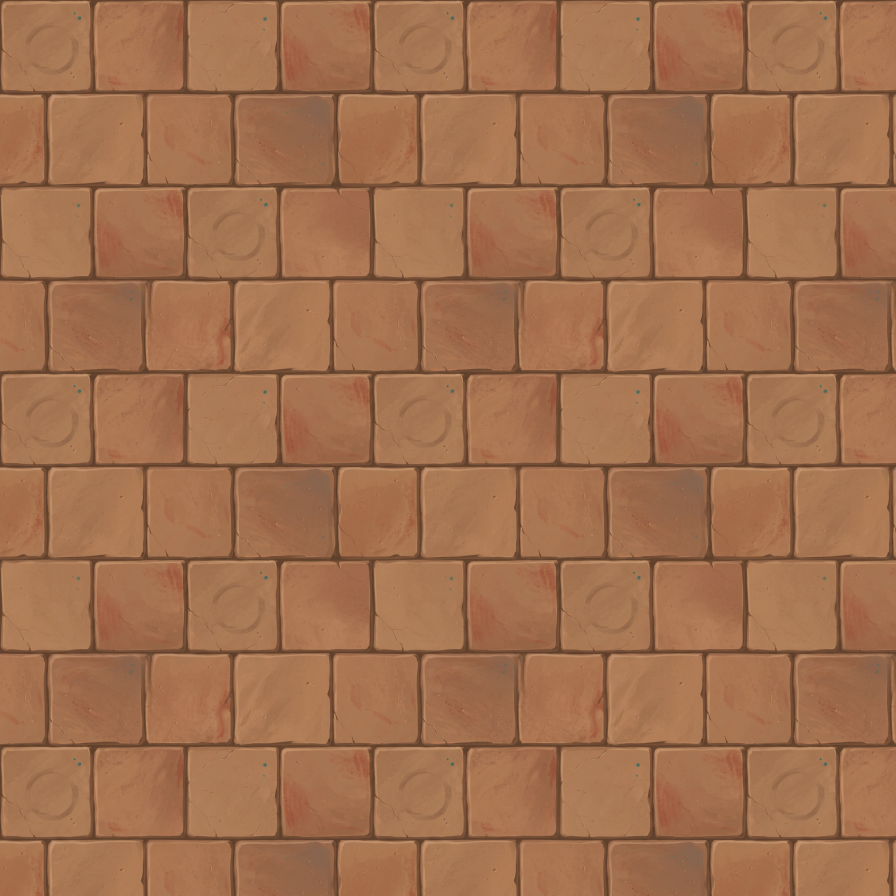
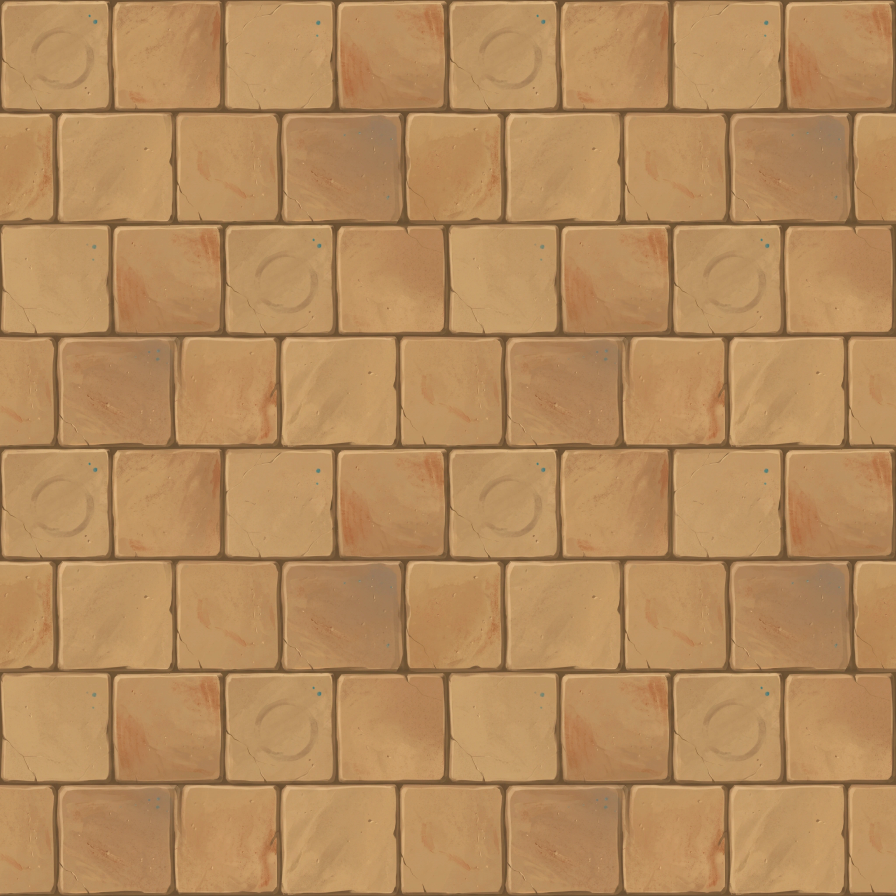
fix: junior's floor is gold-ochre and tiles whole, its palette re-sampled from the repaint
Claude-Session: https://claude.ai/code/session_01NQk9Q1WZoZfDzoRioyXby1

diff --git a/scripts/importTile.ts b/scripts/importTile.ts
@@ -15,9 +15,9 @@
  *   --key=#ff00ff    background colour to make transparent (default magenta). --key=none to skip.
  *   --tolerance=60   how far from that colour still counts as background (0-441, default 60)
  *   --filter=nearest keep hard pixel edges. --filter=smooth for painted art (default: nearest)
- *   --repeat=1.4     fit the art N times across the slot instead of once, for a megatile whose subject
- *                    came back too big. Fractional is the point — a whole number makes the repeat
- *                    visible. Run `make-seamless` on the SOURCE first, or the grid shows its own seams.
+ *   --repeat=2       fit the art N times across the slot instead of once, for a megatile whose subject
+ *                    came back too big. A whole number: the slot is tiled again on the map, and only whole
+ *                    copies meet their neighbour. Run `make-seamless` on the SOURCE first.
  *   --headroom=0.25  squeeze the art into the LOWER part of the slot and leave the rest clear. On a FACE
  *                    the cap is painted the wall's own top colour, because a face IS the wall; on any
  *                    other slot it is left transparent, so the wall behind a hanging thing still shows.
@@ -614,6 +614,12 @@ const main = async (): Promise<void> => {
   mkdirSync(dir, { recursive: true })
   const out = join(dir, `${name}.png`)
   const repeat = Number(arg("repeat", "1"))
+  if (!Number.isInteger(repeat) || repeat < 1) {
+    console.error(
+      `--repeat=${arg("repeat", "1")}: a whole number. The map tiles this slot again, so a cut copy meets a whole one at every seam.`
+    )
+    process.exit(1)
+  }
   const tileW = Math.round(w / repeat)
   // A face repeats HORIZONTALLY only, the same axis `make-seamless --axis=x` works on: its bands are
   // registered top to bottom and stacking a second copy under them would draw two walls. It is also the
@@ -631,10 +637,8 @@ const main = async (): Promise<void> => {
   // One tile, or a grid of a smaller copy. A generator draws a floor's subject at whatever scale it likes
   // and cannot be talked down reliably; shrinking and repeating is the one lever that needs no re-roll.
   //
-  // `repeat` is fractional on purpose. A whole number is what makes a repeat VISIBLE — at 2 the megatile
-  // is four identical quarters and the eye finds them at once. At 1.4 the copies run off the edge and are
-  // cropped, so no two are the same, and because the source is already seamless (run `make-seamless` on
-  // it first) the crop still tiles.
+  // `repeat` is whole. The map lays this slot edge to edge, so a copy cut off at the slot's edge would meet
+  // the next slot's first copy mid-stone; whole copies of a seamless source meet as the source does.
   const across = Math.ceil(w / tileW)
   const down = Math.ceil(h / tileH)
   const tiles =

diff --git a/src/app/SiteMap/tileMaterials.ts b/src/app/SiteMap/tileMaterials.ts
@@ -68,20 +68,22 @@ export const tierPalette: Record<Tileset, TierPalette> = {
     propDark: "#5c5347",
     outline: "#15110c",
   },
+  // A nobleman's painted house: gold-ochre sandstone flagstones under a dark red-brown mural frieze, copper
+  // and verdigris as its colour (docs/game-design/visual-direction.md). The floor and wall tokens are the
+  // repainted floor's and wall face's.
   junior: {
-    bed: "#b08a5c",
-    slab: "#c39c68",
-    slabHi: "#cfa974",
-    slabLo: "#b8925f",
-    joint: "#4a3520",
+    bed: "#9a724c",
+    slab: "#bb9060",
+    slabHi: "#c09664",
+    slabLo: "#b28458",
+    joint: "#735536",
     accent: METALS.junior.accent,
-    wall: "#8f6a3f",
+    wall: "#734931",
     wallTop: "#b58a55",
-    wallBase: "#4a3520",
-    // The shallowest of the five, and sandstone gives the day's heat back all night: the warmest dark
-    // in the game, and the highest alpha, because its slabs are also the palest.
-    shade: "rgba(36,23,8,0.66)",
-    faceNight: 0.14,
+    wallBase: "#432416",
+    // Rooms are lit, as the merchant's are: the night is a light hand in the rank's own near-black.
+    shade: "rgba(36,23,8,0.3)",
+    faceNight: 0.45,
     lamp: 1,
     prop: "#e0c193",
     propDark: "#9c7442",

diff --git a/docs/instructions/repaint-queue.md b/docs/instructions/repaint-queue.md
@@ -162,7 +162,7 @@ face that comes back a third of 8:1 is laid three side by side first, as the Sph
 
 ### `junior/floor` — large red sandstone flagstones
 
-**Re-roll:** the first roll came out pale honey sandstone, 6 L* under the merchant's limestone and the same hue (L* 69 against 75): the ranks did not tell apart. The ground is now mid-tone red sandstone, about L* 55. The second roll had the right ground, but its joints were near-black drawn lines (p5 lum 64 against a slab band of 129): they are now soft grooves only a step darker than the slab, #7a5434, and nothing on the floor goes darker than #6a4630. The third roll had soft joints, but every slab was the same size in a strict running bond, so it read as a red brick wall, and its petals were white specks repeating in a grid: the paving is now mixed sizes and the petals are gone. The fourth roll copied the merchant's own slab layout from the attached floor: the attachment is now the cave's slabless rock, and the paving is a few large square flagstones, unlike anything on the merchant's floor.
+**Re-roll:** the first roll came out pale honey sandstone, 6 L* under the merchant's limestone and the same hue (L* 69 against 75): the ranks did not tell apart. The ground is now mid-tone red sandstone, about L* 55. The second roll had the right ground, but its joints were near-black drawn lines (p5 lum 64 against a slab band of 129): they are now soft grooves only a step darker than the slab, #7a5434, and nothing on the floor goes darker than #6a4630. The third roll had soft joints, but every slab was the same size in a strict running bond, so it read as a red brick wall, and its petals were white specks repeating in a grid: the paving is now mixed sizes and the petals are gone. The fourth roll copied the merchant's own slab layout from the attached floor: the attachment is now the cave's slabless rock, and the paving is a few large square flagstones, unlike anything on the merchant's floor. The fifth roll was right in layout but red, the colour of the copper it should carry: its master was shifted to gold-ochre afterwards (hue +12, brightness ×1.18), so the metal lives on the walls and props and the ground stays calm.
 
 **Attach:** `art/masters/surfaces/cave-floor.webp` — the cave's rock floor, for paint quality only: it has no slabs, so it hands the generator no layout to copy
 
@@ -211,7 +211,7 @@ and no feature touching two edges. Spread evenly — no corner busier than anoth
 Even lighting across the entire image, no hotspot, no vignette. Edge to edge texture.
 ```
 
-**Import:** `yarn import-tile art/masters/surfaces/junior-floor.webp --tier=junior --name=floor --slot=floor --filter=smooth --key=none --repeat=2.4`
+**Import:** `yarn import-tile art/masters/surfaces/junior-floor.webp --tier=junior --name=floor --slot=floor --filter=smooth --key=none --repeat=2`
 
 ### `junior/wall-face` — a painted procession over a dado band
 
@@ -354,7 +354,7 @@ and no feature touching two edges. Spread evenly — no corner busier than anoth
 Even lighting across the entire image, no hotspot, no vignette. Edge to edge texture.
 ```
 
-**Import:** `yarn import-tile art/masters/surfaces/expert-floor.webp --tier=expert --name=floor --slot=floor --filter=smooth --key=none --repeat=2.4`
+**Import:** `yarn import-tile art/masters/surfaces/expert-floor.webp --tier=expert --name=floor --slot=floor --filter=smooth --key=none --repeat=2`
 
 ### `expert/wall-face` — cool dressed stone in sunk-relief columns
 
@@ -494,7 +494,7 @@ frame, and no feature touching two edges. Spread evenly — no corner busier tha
 Even lighting across the entire image, no hotspot, no vignette. Edge to edge texture.
 ```
 
-**Import:** `yarn import-tile art/masters/surfaces/master-floor.webp --tier=master --name=floor --slot=floor --filter=smooth --key=none --repeat=2.4`
+**Import:** `yarn import-tile art/masters/surfaces/master-floor.webp --tier=master --name=floor --slot=floor --filter=smooth --key=none --repeat=2`
 
 ### `master/wall-face` — gilded relief under a kheker frieze
 
@@ -633,7 +633,7 @@ and no feature touching two edges. Spread evenly — no corner busier than anoth
 Even lighting across the entire image, no hotspot, no vignette. Edge to edge texture.
 ```
 
-**Import:** `yarn import-tile art/masters/surfaces/wizard-floor.webp --tier=wizard --name=floor --slot=floor --filter=smooth --key=none --repeat=2.4`
+**Import:** `yarn import-tile art/masters/surfaces/wizard-floor.webp --tier=wizard --name=floor --slot=floor --filter=smooth --key=none --repeat=2`
 
 ### `wizard/wall-face` — calcite lit from behind, light in the joints
 
